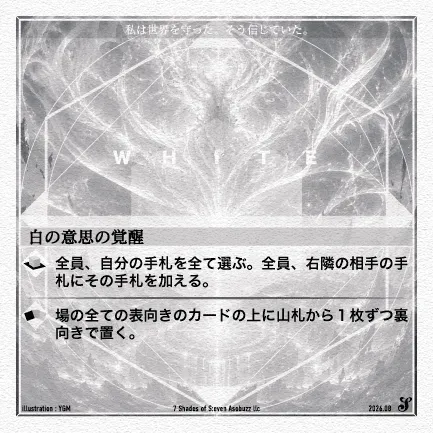
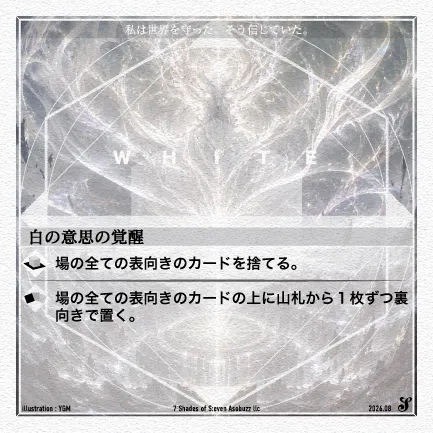
#222 色落ちキャット手札効果変更/接触演出の順序ログ強化/白の意思の覚醒画像差替え
- 色落ちキャット■を「ロック中カードを任意枚数捨て、1枚につき3枚ドロー、フェイズ終了」に変更
  (新動詞 DISCARD_ANY_OWN_LOCKED_DRAW_PER、ファースト/エターナルは対象外)
- respondToContact に diag-contact-tackle ログ追加(lunge/state-move/flight の順序を記録)
- assets/cards/white-awakening.webp を差し替え

Changed region(s): [[0.03, 0.5704, 0.9607, 0.7806]]

diff --git a/src/card-effects.js b/src/card-effects.js
@@ -46,7 +46,8 @@ export const VERBS = {
   END_CURRENT_PHASE: "end_current_phase", // なないろの巨光・スラム上がりの役人・ザ・ギャンブル専用: 現在のフェイズを強制的に終了する
   PLACE_SELF_ADJACENT_TO_CHOSEN_OPPONENT: "place_self_adjacent_to_chosen_opponent", // プレゼント専用: 相手を選び、その隣に自分自身を裏向きで置く
   PLACE_DECK_CARD_ON_ALL_FACEUP_CELLS: "place_deck_card_on_all_faceup_cells", // 白の意思の覚醒専用: 場の全ての表向きのカードの上に山札から1枚ずつ裏向きで置く
-  DISCARD_OWN_HAND: "discard_own_hand", // 色落ちキャット専用: 自分の手札を全て捨てる（全員対象のALL_PLAYERS_DISCARD_HAND_AND_DRAWと違い自分だけ）
+  DISCARD_OWN_HAND: "discard_own_hand", // （旧・色落ちキャット手札効果。効果変更で未使用に。他カードで使う可能性を残し定義は残置）自分の手札を全て捨てる
+  DISCARD_ANY_OWN_LOCKED_DRAW_PER: "discard_any_own_locked_draw_per", // 色落ちキャット手札効果専用: 自分のロックカードを任意の枚数捨て、1枚につきdrawPer枚ドロー
   DISCARD_ONE_HAND_CARD: "discard_one_hand_card", // ザ・ギャンブル専用: 手札から1枚を選んで捨てる（追色コストと違い色の制約は無い）
   DRAW_IF_HAND_AT_MOST: "draw_if_hand_at_most", // スラム上がりの役人専用: 自分の手札が指定枚数以下ならドローする
   // ザ・ギャンブルの手札効果専用: 「上記の到達時の効果を得る」の前後に別のアクション
@@ -278,12 +279,12 @@ export const CARD_EFFECTS = {
         { verb: VERBS.ALL_PLAYERS_DISCARD_HAND_AND_DRAW, count: 1 },
       ],
     },
-    // 手札効果: 「あなたの手札をすべて捨てる。１枚ドロー。」到達効果と違い自分だけが
-    // 対象（DISCARD_OWN_HAND、ALL_PLAYERS版と違い他プレイヤーへの委任は不要）。
+    // 手札効果（2026-08-18ユーザーが効果変更）: 「あなたのロックしているカードを任意の枚数
+    // 捨てる。捨てたカード１枚に付き３枚ドロー。このフェイズを終了する。」
     handEffect: {
       actions: [
-        { verb: VERBS.DISCARD_OWN_HAND },
-        { verb: VERBS.DRAW, count: 1, target: TARGETS.SELF },
+        { verb: VERBS.DISCARD_ANY_OWN_LOCKED_DRAW_PER, drawPer: 3 },
+        { verb: VERBS.END_CURRENT_PHASE },
       ],
     },
   },
@@ -950,6 +951,8 @@ function renderAction(action, context) {
       return "場の全ての表向きのカードの上に山札から１枚ずつ裏向きで置く。";
     case VERBS.DISCARD_OWN_HAND:
       return "あなたの手札をすべて捨てる。";
+    case VERBS.DISCARD_ANY_OWN_LOCKED_DRAW_PER:
+      return `あなたのロックしているカードを任意の枚数捨てる。捨てたカード１枚に付き${toFullWidthNumber(action.drawPer)}枚ドロー。`;
     case VERBS.DISCARD_ONE_HAND_CARD:
       return "あなたは手札を１枚捨てる。";
     case VERBS.DRAW_IF_HAND_AT_MOST:

diff --git a/src/card-effect-engine.js b/src/card-effect-engine.js
@@ -1450,6 +1450,42 @@ async function runAction(action, ctx, helpers) {
       );
       return true;
     }
+    case VERBS.DISCARD_ANY_OWN_LOCKED_DRAW_PER: {
+      // 色落ちキャット手札効果（2026-08-18ユーザー変更）専用: 自分のロックしているカードを
+      // 任意の枚数（0枚でもよい）捨て、捨てたカード1枚につきaction.drawPer枚ドローする。
+      // DISCARD_ONE_LOCKED_CARDの候補生成（ファースト/エターナルは対象外）＋
+      // FLIP_UP_TO_N_WITHIN_RANGEの「0..N複数選択（stop可）」を組み合わせた形。
+      const drawPer = action.drawPer ?? 3;
+      const side = SEAT_TO_SIDE[ctx.player];
+      let discarded = 0;
+      for (let i = 0; i < 7; i++) {
+        const lockedTokens = getState().tokens.filter(
+          (t) => t.kind === "card" && t.location.zone === "lock" && t.location.side === side && isTargetableByOtherCardEffects(t.cardId)
+        );
+        if (lockedTokens.length === 0) break;
+        const candidates = lockedTokens.map((t) => t.location);
+        const dest = await helpers.pickLocation(
+          candidates,
+          `捨てるロックカードを選択してください（任意、選ぶと${drawPer}枚ドロー）`,
+          { allowSkip: true, skipLabel: discarded > 0 ? "これ以上捨てない" : "捨てない" }
+        );
+        if (!dest) break; // 「任意の枚数」＝これ以上選ばない＝正常終了
+        const chosen = lockedTokens.find((t) => t.location.side === dest.side && t.location.index === dest.index);
+        if (!chosen) break;
+        await helpers.discardAndSync(chosen.id);
+        discarded++;
+      }
+      if (discarded > 0) {
+        await helpers.drawCards(ctx.player, discarded * drawPer);
+        await helpers.announceEffectReason?.(
+          ctx.cardId,
+          `ロックカードを${discarded}枚捨て、${discarded * drawPer}枚ドローしました。`
+        );
+      }
+      // END_CURRENT_PHASEが後続にあるので、捨てなかった（discarded:0）場合でも効果全体は
+      // 「不発」ではない（フェイズ終了は必ず起きる）。ここは実際に捨てたかどうかを返す。
+      return discarded > 0;
+    }
     case VERBS.DECLARE_COLORS: {
       // ザ・ギャンブル（action.minCount、以上）/試練の儀式（action.count、固定数）
       // 共通。実際の選択UI（複数色から選ばせる）はhelpers側（main.jsのdeclareColorsForEffect）

diff --git a/src/main.js b/src/main.js
@@ -7152,12 +7152,22 @@ async function respondToContact(approve) {
     }
   }
 
+  // 接触演出の順序を後から追えるよう記録（ユーザー要望2026-08-18「順序がしっかりわかるよう
+  // アクションログを強化して」）。tackle が null なら「なぜ演出無しか」も残す。
+  logAction("diag-contact-tackle", {
+    phase: tackle ? "lunge-start" : "no-anim",
+    reason: tackle ? undefined : isFlightAnimationDisabled() ? "flight-anim-disabled" : "piece-dom-not-found",
+    attacker,
+    defender,
+    online: isOnlineMode(),
+  });
   if (tackle) {
     // 汎用render()リスナー・remote-move-animator.jsを一時停止し、この後の
     // respondContact()による状態変化で盤面が勝手に作り直されないようにする
     // （suppressGenericRenderForOnlineStartと同じパターン）。
     suppressGenericRenderForContactTackle = true;
     await playContactLunge(tackle);
+    logAction("diag-contact-tackle", { phase: "lunge-end-state-move" });
   }
 
   if (isOnlineMode()) {
@@ -7183,8 +7193,10 @@ async function respondToContact(approve) {
   }
 
   if (tackle) {
+    logAction("diag-contact-tackle", { phase: "flight-start" });
     await playContactFlight(defenderPieceId, tackle.defenderFromRect);
     suppressGenericRenderForContactTackle = false;
+    logAction("diag-contact-tackle", { phase: "flight-end" });
   } else if (approve) {
     playSound("piecePlace");
   }

diff --git a/src/card-dev-mode.js b/src/card-dev-mode.js
@@ -220,7 +220,7 @@ const PILOT_CARDS = [
   { cardId: "white-radiance", kind: "arrival", actual: "全員、3枚ドロー。このカードを捨てる。" },
   { cardId: "white-radiance", kind: "handEffect", actual: "全員、３枚ドロー。このフェイズを終了する。" },
   { cardId: "black-faded-cat", kind: "arrival", actual: "これを捨てる。全員、手札を全て捨て、１枚ドロー。" },
-  { cardId: "black-faded-cat", kind: "handEffect", actual: "あなたの手札をすべて捨てる。１枚ドロー。" },
+  { cardId: "black-faded-cat", kind: "handEffect", actual: "あなたのロックしているカードを任意の枚数捨てる。捨てたカード１枚に付き３枚ドロー。このフェイズを終了する。" },
   { cardId: "black-contract-brand", kind: "arrival", actual: "あなたの空いているロックエリアに、これを表向きで置く。" },
   { cardId: "black-contract-brand", kind: "handEffect", actual: "これを任意のマスに裏向きで置く。" },
   {

diff --git a/src/app-version.js b/src/app-version.js
@@ -1,3 +1,3 @@
 // 自動生成（.git/hooks/pre-commit）。デプロイのたびに更新される「今実行しているコード」の
 // バージョン。version.json と必ず同じ値になる。update-checker.js が使う基準値。
-export const APP_VERSION = "20260818-230417";
+export const APP_VERSION = "20260818-233113";

diff --git a/docs/cards.md b/docs/cards.md
@@ -303,7 +303,7 @@
 > Ω 撫でるたび、世界が少し色褪せる。
 
 - ● これを捨てる。全員、手札を全て捨て、１枚ドロー。
-- ■ あなたの手札をすべて捨てる。１枚ドロー。
+- ■ あなたのロックしているカードを任意の枚数捨てる。捨てたカード１枚に付き３枚ドロー。このフェイズを終了する。
 
 到達効果補足: 複数のプレイヤーを対象にした効果は原則、効果の使用者から時計回りに効果を処理する（処理順の原則）。
 
